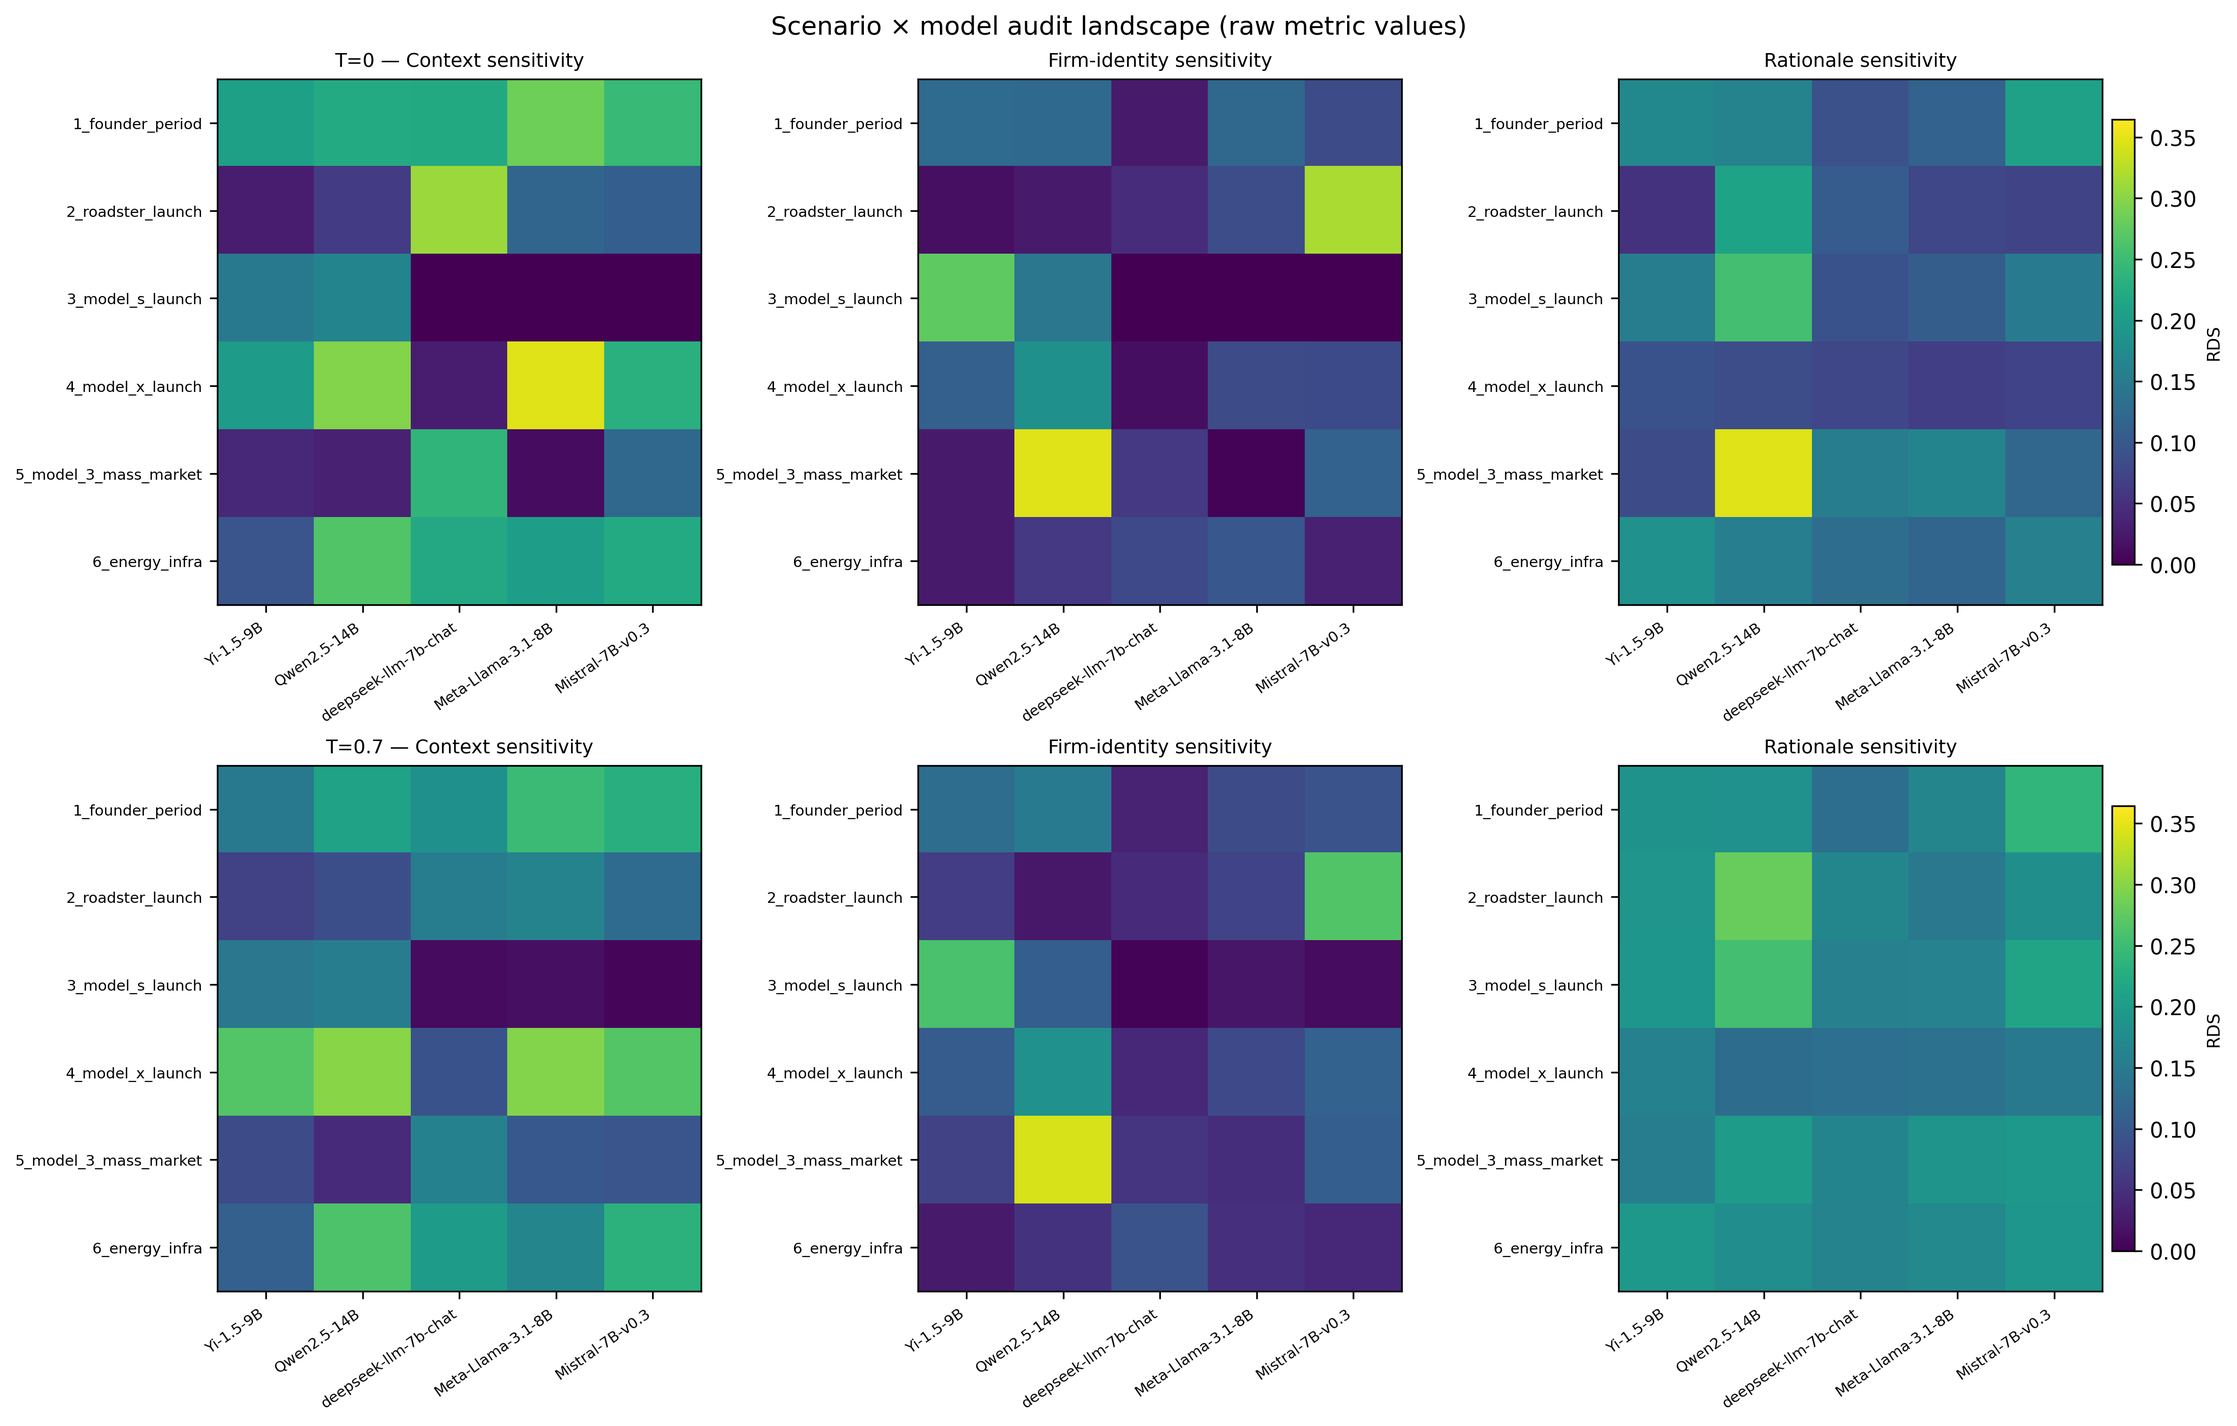
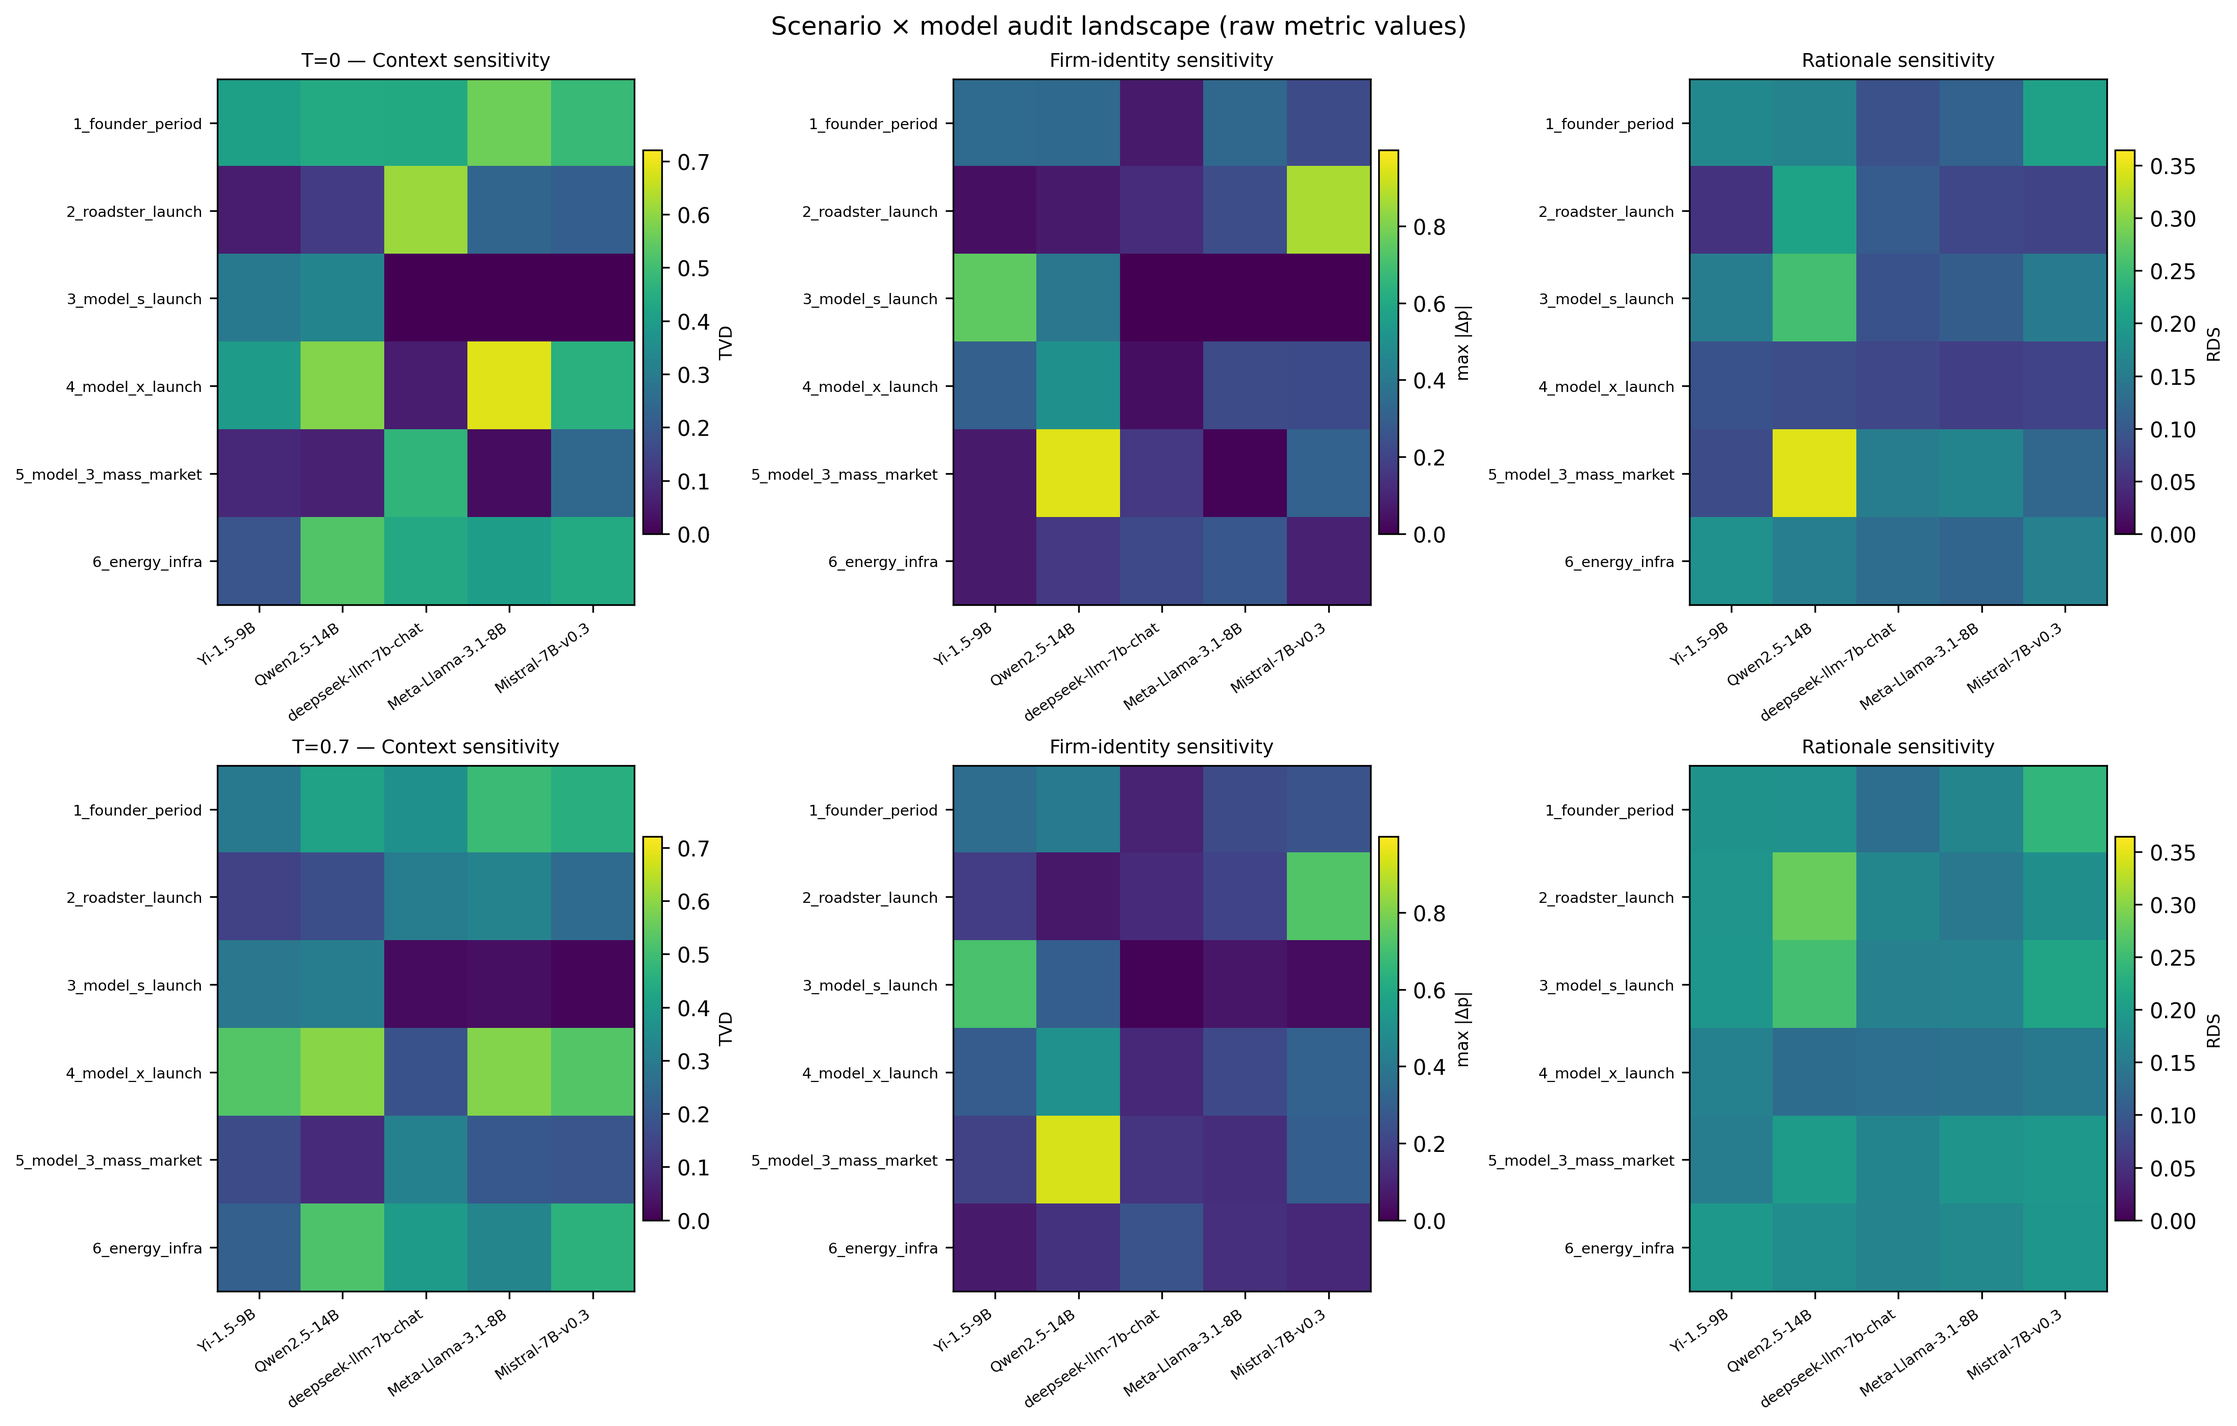
Fix Table 7 level-consistency, Fig. 8 missing colorbars, and Fig. 9-10 legacy CR naming
- Table 7: report the same T=0.0/0.7-averaged cell metric for all three axes
  (TVD, max |Δp|, mean RDS) instead of mixing in peak/order-statistic values.
- Fig. 8 (audit_localization_metrics.py): each of the three panels now gets its
  own colorbar; previously only the last (RDS) panel rendered one, making the
  Context/Firm-identity panels' true (higher) scale invisible.
- Figs. 9-10: move context-sensitivity plotting into a new dedicated module
  (context_sensitivity_case_plots.py) instead of reusing legacy CR-named
  functions/titles; spell out full context-variant names, add the missing
  randomized_numbers variant to Fig. 9, and regenerate both figures.

diff --git a/result_analysis/context_sensitivity_case_plots.py b/result_analysis/context_sensitivity_case_plots.py
@@ -1,0 +1,299 @@
+"""
+Context sensitivity case deep-dive plots for §5.6.3 Case I (Figs. 9-10).
+
+This module is intentionally separate from ``deep_dive_fr_cr_ds_plots.py``: the
+FR/CR/DS-named functions there are legacy scaffolding kept for reference but no
+longer used to produce paper figures. Context-sensitivity visualizations (strategy
+mix under context perturbations + framing, and mean TVD from *base* by perturbation
+variant) live here so figure titles, labels, and defaults are owned by this axis
+rather than inherited from the old CR terminology.
+
+Outputs (default paths under final_results/plots):
+  eval_deepdive_context_strategy_stacks_framing__{model}__{scenario}.png  (Fig. 9)
+  eval_deepdive_context_tvd_by_variant__{model}__{scenario}.png          (Fig. 10)
+"""
+
+from __future__ import annotations
+
+import os
+from typing import Dict, List, Optional, Sequence, Tuple
+
+import matplotlib.pyplot as plt
+import numpy as np
+import pandas as pd
+
+try:
+    from result_analysis.model_behavioral_profile import (
+        PERTURBATION_VARIANTS,
+        load_profile_data,
+        valid_strategies,
+        _safe_filename,
+        _short_model_name,
+        _strategy_distribution,
+    )
+    from result_analysis.tvd_from_base_ci import total_variation_distance
+except ImportError:
+    from model_behavioral_profile import (
+        PERTURBATION_VARIANTS,
+        load_profile_data,
+        valid_strategies,
+        _safe_filename,
+        _short_model_name,
+        _strategy_distribution,
+    )
+    from tvd_from_base_ci import total_variation_distance
+
+TEMPERATURES_DEFAULT: Tuple[float, float] = (0.0, 0.7)
+
+# Full context-variant names (no abbreviation), matching how they are written
+# in the paper prose (e.g. *competitive_dynamics*, *count_fact*, *opp_focus*,
+# *randomized_numbers*).
+CONTEXT_VARIANTS_WITH_BASE: Tuple[str, ...] = ("base", *PERTURBATION_VARIANTS)
+
+CONTEXT_VARIANT_COLORS: Dict[str, str] = {
+    "base": "#7f7f7f",
+    "competitive_dynamics": "#3182bd",
+    "count_fact": "#31a354",
+    "opp_focus": "#fd8d3c",
+    "randomized_numbers": "#984ea3",
+}
+
+STRATEGY_COLORS = plt.cm.tab10(np.linspace(0, 0.9, len(valid_strategies)))
+
+
+def _same_temp(x: float, t: float, eps: float = 1e-6) -> bool:
+    return abs(float(x) - float(t)) < eps
+
+
+def _safe_tvd(p: np.ndarray, q: np.ndarray) -> float:
+    """Total Variation Distance; NaN if either side has zero mass."""
+    p = np.asarray(p, dtype=float)
+    q = np.asarray(q, dtype=float)
+    if p.sum() == 0 or q.sum() == 0:
+        return np.nan
+    return total_variation_distance(p, q)
+
+
+def _stacked_bars(
+    ax: plt.Axes,
+    x_labels: Sequence[str],
+    prop_rows: np.ndarray,
+    title: str,
+    y_max: Optional[float] = None,
+) -> None:
+    """prop_rows: shape (n_groups, n_strategies), each row sums to ~1."""
+    n_g, _ = prop_rows.shape
+    x = np.arange(n_g)
+    bottom = np.zeros(n_g)
+    for j, strat in enumerate(valid_strategies):
+        h = np.nan_to_num(prop_rows[:, j], nan=0.0)
+        ax.bar(x, h, bottom=bottom, label=strat, color=STRATEGY_COLORS[j], width=0.65)
+        bottom = bottom + h
+    ax.set_xticks(x)
+    ax.set_xticklabels(list(x_labels), rotation=30, ha="right", fontsize=8)
+    ax.set_ylabel("proportion")
+    ax.set_title(title, fontsize=10)
+    ax.set_ylim(0.0, 1.0 if y_max is None else y_max)
+    ax.grid(True, axis="y", linestyle="--", alpha=0.3)
+
+
+def build_context_tvd_from_base_long(
+    df: pd.DataFrame,
+    *,
+    model: Optional[str] = None,
+    scenario: Optional[str] = None,
+) -> pd.DataFrame:
+    """
+    Mean TVD(base, v) for each perturbation variant v (including randomized_numbers),
+    mean over (Num Context, problem_type).
+
+    If model is None: cohort-wide mean for each (Model, Temperature, variant).
+    If model and scenario set: restrict to that slice (still mean over Num Context, problem_type).
+    """
+    rows: List[dict] = []
+    d = df.copy()
+    if model is not None:
+        d = d[d["Model"] == model]
+    if scenario is not None:
+        d = d[d["scenario"] == scenario]
+
+    group_keys = ["Model", "Temperature"]
+    if scenario is None:
+        group_keys.append("scenario")
+
+    for keys, g in d.groupby(group_keys, dropna=False):
+        if scenario is None:
+            mod, temp, scen = keys
+        else:
+            mod, temp = keys
+            scen = scenario
+
+        for v in PERTURBATION_VARIANTS:
+            tvals = []
+            for _, gp in g.groupby(["Num Context", "problem_type"], dropna=False):
+                base = gp[gp["context_variant"] == "base"]["Standard Mapping"]
+                dv = gp[gp["context_variant"] == v]["Standard Mapping"]
+                if len(base) == 0 or len(dv) == 0:
+                    continue
+                tvals.append(
+                    _safe_tvd(_strategy_distribution(base), _strategy_distribution(dv))
+                )
+            tm = float(np.nanmean(tvals)) if len(tvals) else np.nan
+            rows.append(
+                {
+                    "Model": mod,
+                    "Temperature": float(temp),
+                    "scenario": scen,
+                    "perturbation_variant": v,
+                    "mean_tvd_from_base": tm,
+                    "n_conditions": len(tvals),
+                }
+            )
+
+    out = pd.DataFrame(rows)
+    if len(out) == 0:
+        return out
+    return out.sort_values(
+        ["Model", "Temperature", "scenario", "perturbation_variant"]
+    ).reset_index(drop=True)
+
+
+def plot_context_strategy_stacks_framing_split(
+    df: pd.DataFrame,
+    *,
+    model: str,
+    scenario: str,
+    temperatures: Sequence[float] = TEMPERATURES_DEFAULT,
+    variants_for_plot: Sequence[str] = CONTEXT_VARIANTS_WITH_BASE,
+    save_path: str,
+) -> None:
+    """Fig. 9: strategy mix across all context perturbations (incl. randomized_numbers)
+    and framing types, 2 rows per temperature (generic / specific)."""
+    os.makedirs(os.path.dirname(save_path), exist_ok=True)
+    n_t = len(temperatures)
+    fig, axes = plt.subplots(n_t * 2, 1, figsize=(8.0, 2.8 * n_t * 2), sharex=True)
+
+    row = 0
+    for temp in temperatures:
+        sub = df[
+            (df["Model"] == model)
+            & (df["scenario"] == scenario)
+            & (df["Temperature"].apply(lambda x: _same_temp(x, temp)))
+        ]
+        for ptype in ("generic", "specific"):
+            ax = axes[row]
+            rows_m = []
+            for v in variants_for_plot:
+                g = sub[(sub["context_variant"] == v) & (sub["problem_type"] == ptype)]
+                if len(g) == 0:
+                    rows_m.append(np.full(len(valid_strategies), np.nan))
+                else:
+                    rows_m.append(_strategy_distribution(g["Standard Mapping"]))
+            mat = np.vstack(rows_m)
+            _stacked_bars(
+                ax,
+                list(variants_for_plot),
+                mat,
+                title=f"T={float(temp):g} — {ptype}",
+            )
+            row += 1
+
+    fig.suptitle(
+        f"Context sensitivity case: strategy mix by context variant (Generic vs Specific)\n"
+        f"{_short_model_name(model)} — {scenario}",
+        fontsize=11,
+        y=1.005,
+    )
+    handles, labels = axes[0].get_legend_handles_labels()
+    fig.legend(handles, labels, loc="center left", bbox_to_anchor=(1.02, 0.5), fontsize=7)
+    plt.tight_layout()
+    plt.savefig(save_path, dpi=300, bbox_inches="tight")
+    plt.close(fig)
+
+
+def plot_context_tvd_by_variant_bars(
+    tvd_long: pd.DataFrame,
+    *,
+    model: str,
+    scenario: str,
+    temperatures: Sequence[float] = TEMPERATURES_DEFAULT,
+    save_path: str,
+) -> None:
+    """Fig. 10: grouped bars, mean TVD(base, v) for each perturbation variant, per temperature."""
+    os.makedirs(os.path.dirname(save_path), exist_ok=True)
+    fig, axes = plt.subplots(1, len(temperatures), figsize=(5.2 * len(temperatures), 4.0), sharey=True)
+    if len(temperatures) == 1:
+        axes = np.array([axes])
+
+    for ax, temp in zip(axes, temperatures):
+        sub = tvd_long[
+            (tvd_long["Model"] == model)
+            & (tvd_long["scenario"] == scenario)
+            & (tvd_long["Temperature"].apply(lambda x: _same_temp(x, temp)))
+        ]
+        order = PERTURBATION_VARIANTS
+        ys = [
+            float(sub[sub["perturbation_variant"] == v]["mean_tvd_from_base"].iloc[0])
+            if len(sub[sub["perturbation_variant"] == v])
+            else np.nan
+            for v in order
+        ]
+        x = np.arange(len(order))
+        colors = [CONTEXT_VARIANT_COLORS.get(v, "#888888") for v in order]
+        ax.bar(x, ys, color=colors, width=0.6)
+        ax.set_xticks(x)
+        ax.set_xticklabels(list(order), rotation=30, ha="right", fontsize=8)
+        ax.set_ylabel("mean TVD from base")
+        ax.set_title(f"T={float(temp):g}")
+        ax.grid(True, axis="y", linestyle="--", alpha=0.3)
+
+    fig.suptitle(
+        f"Context sensitivity: perturbation strength (mean TVD from base)\n"
+        f"{_short_model_name(model)} — {scenario}",
+        fontsize=11,
+        y=1.05,
+    )
+    plt.tight_layout()
+    plt.savefig(save_path, dpi=300, bbox_inches="tight")
+    plt.close(fig)
+
+
+def run_context_sensitivity_case_plots(
+    input_dir: str = "infer_results",
+    plots_dir: str = "./final_results/plots",
+    *,
+    context_cell: Tuple[str, str] = ("meta-llama/Meta-Llama-3.1-8B-Instruct", "4_model_x_launch"),
+    temperatures: Sequence[float] = TEMPERATURES_DEFAULT,
+) -> None:
+    """Regenerate Figs. 9-10 (§5.6.3 Case I) for the given (model, scenario) cell."""
+    os.makedirs(plots_dir, exist_ok=True)
+    df = load_profile_data(input_dir=input_dir)
+    m, s = context_cell
+
+    plot_context_strategy_stacks_framing_split(
+        df,
+        model=m,
+        scenario=s,
+        temperatures=temperatures,
+        save_path=os.path.join(
+            plots_dir,
+            f"eval_deepdive_context_strategy_stacks_framing__{_safe_filename(_short_model_name(m))}__{_safe_filename(s)}.png",
+        ),
+    )
+
+    tvd_scen = build_context_tvd_from_base_long(df, model=m, scenario=s)
+    plot_context_tvd_by_variant_bars(
+        tvd_scen,
+        model=m,
+        scenario=s,
+        temperatures=temperatures,
+        save_path=os.path.join(
+            plots_dir,
+            f"eval_deepdive_context_tvd_by_variant__{_safe_filename(_short_model_name(m))}__{_safe_filename(s)}.png",
+        ),
+    )
+    print("Context sensitivity case plots (Figs. 9-10) written to:", plots_dir)
+
+
+if __name__ == "__main__":
+    run_context_sensitivity_case_plots()

diff --git a/result_analysis/deep_dive_fr_cr_ds_plots.py b/result_analysis/deep_dive_fr_cr_ds_plots.py
@@ -61,6 +61,11 @@ try:
         _strategy_distribution,
     )
     from result_analysis.tvd_from_base_ci import total_variation_distance
+    from result_analysis.context_sensitivity_case_plots import (
+        build_context_tvd_from_base_long,
+        plot_context_strategy_stacks_framing_split,
+        plot_context_tvd_by_variant_bars,
+    )
 except ImportError:
     from model_behavioral_profile import (
         PERTURBATION_VARIANTS,
@@ -72,6 +77,11 @@ except ImportError:
         _strategy_distribution,
     )
     from tvd_from_base_ci import total_variation_distance
+    from context_sensitivity_case_plots import (
+        build_context_tvd_from_base_long,
+        plot_context_strategy_stacks_framing_split,
+        plot_context_tvd_by_variant_bars,
+    )
 
 # Always load project rationale via package path — avoid bare `import rationale_analysis`
 # (can resolve to an unrelated PyPI package missing our helpers).
@@ -775,8 +785,8 @@ def run_audit_case_deepdives(
     )
 
     m, s = context_cell
-    tvd_scen = build_tvd_base_vs_semantic_long(df, model=m, scenario=s)
-    plot_cr_tvd_by_variant_bars(
+    tvd_scen = build_context_tvd_from_base_long(df, model=m, scenario=s)
+    plot_context_tvd_by_variant_bars(
         tvd_scen,
         model=m,
         scenario=s,
@@ -786,7 +796,7 @@ def run_audit_case_deepdives(
             f"eval_deepdive_context_tvd_by_variant__{_safe_filename(_short_model_name(m))}__{_safe_filename(s)}.png",
         ),
     )
-    plot_cr_strategy_mix_by_variant_framing_split(
+    plot_context_strategy_stacks_framing_split(
         df,
         model=m,
         scenario=s,

diff --git a/result_analysis/audit_localization_metrics.py b/result_analysis/audit_localization_metrics.py
@@ -338,9 +338,8 @@ def plot_scenario_model_audit_landscape_paper(
             ax.set_yticklabels(scenarios, fontsize=7)
             row_title = f"T={float(temp):g} — {title}" if j == 0 else title
             ax.set_title(row_title if j == 0 else title, fontsize=9)
-            if j == len(metrics) - 1:
-                cbar = fig.colorbar(im, ax=ax, fraction=0.046, pad=0.02)
-                cbar.set_label(METRIC_CBAR_LABELS[col], fontsize=8)
+            cbar = fig.colorbar(im, ax=ax, fraction=0.046, pad=0.02)
+            cbar.set_label(METRIC_CBAR_LABELS[col], fontsize=8)
 
     fig.suptitle(
         "Scenario × model audit landscape (raw metric values)",

diff --git a/ESWA_paper_harvard_0708.md b/ESWA_paper_harvard_0708.md
@@ -283,9 +283,9 @@ Table 7 lists the three priority cells selected for case analysis.
 
 | Audit axis | Model | Scenario | Localization signal |
 | :---- | :---- | :---- | :---- |
-| Context | Llama-3.1-8B-Instruct | 4\_model\_x\_launch | *opp\_focus* peak TVD = 0.686 at $T=0.0$; Specific framing activates Technology Leadership |
-| Firm-identity | Qwen2.5-14B-Instruct | 5\_model\_3\_mass\_market | Generic → Open Innovation; Specific → Maintain (mean \|Δ*p\| = 0.94) |
-| Rationale | Qwen2.5-14B-Instruct | 2\_roadster\_launch | Maintain × *count\_fact*; matched-choice rationales diverge (peak pair RDS = 0.689) |
+| Context | Llama-3.1-8B-Instruct | 4\_model\_x\_launch | context TVD = 0.636; *opp\_focus* is the dominant driver; Specific framing activates Technology Leadership |
+| Firm-identity | Qwen2.5-14B-Instruct | 5\_model\_3\_mass\_market | firm-identity Δp = 0.944; Generic → Open Innovation, Specific → Maintain |
+| Rationale | Qwen2.5-14B-Instruct | 2\_roadster\_launch | rationale RDS = 0.246; Maintain × *count\_fact* matched-choice rationales diverge |
 
 Table 7. Priority scenario–model cells for deployment risk cases (axis means macro-averaged over $T=0.0$ and $T=0.7$).
 
